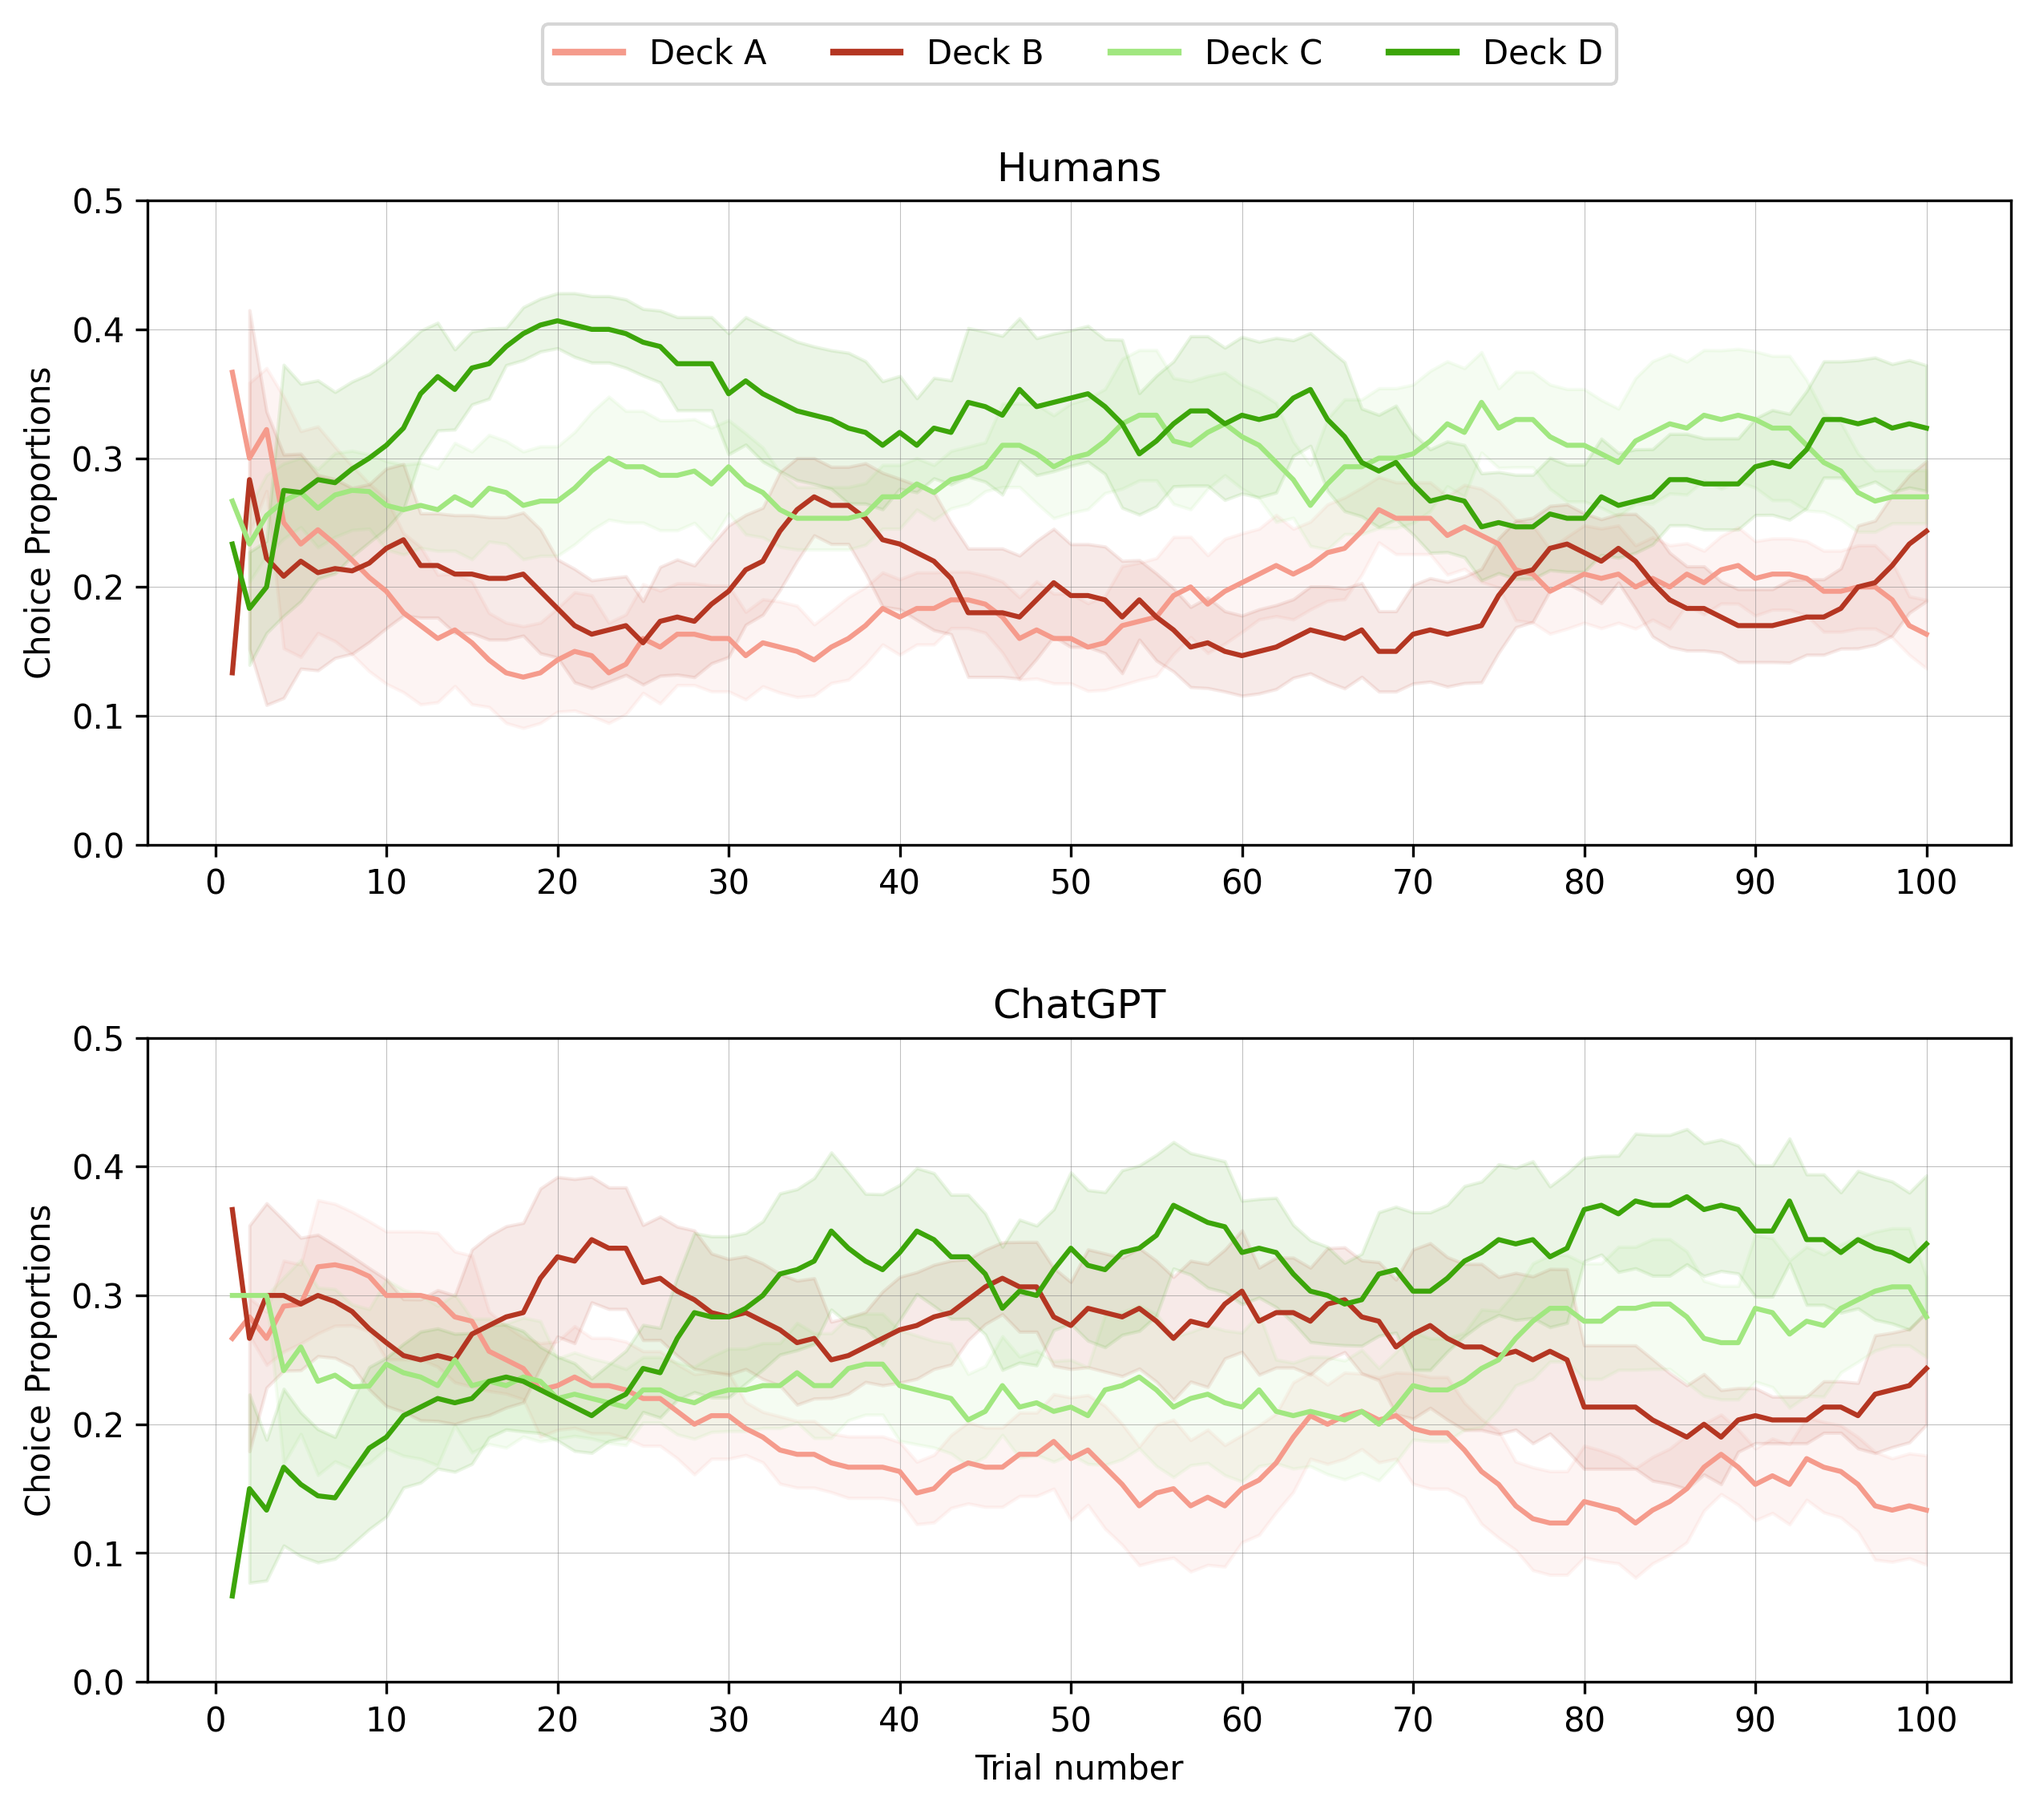
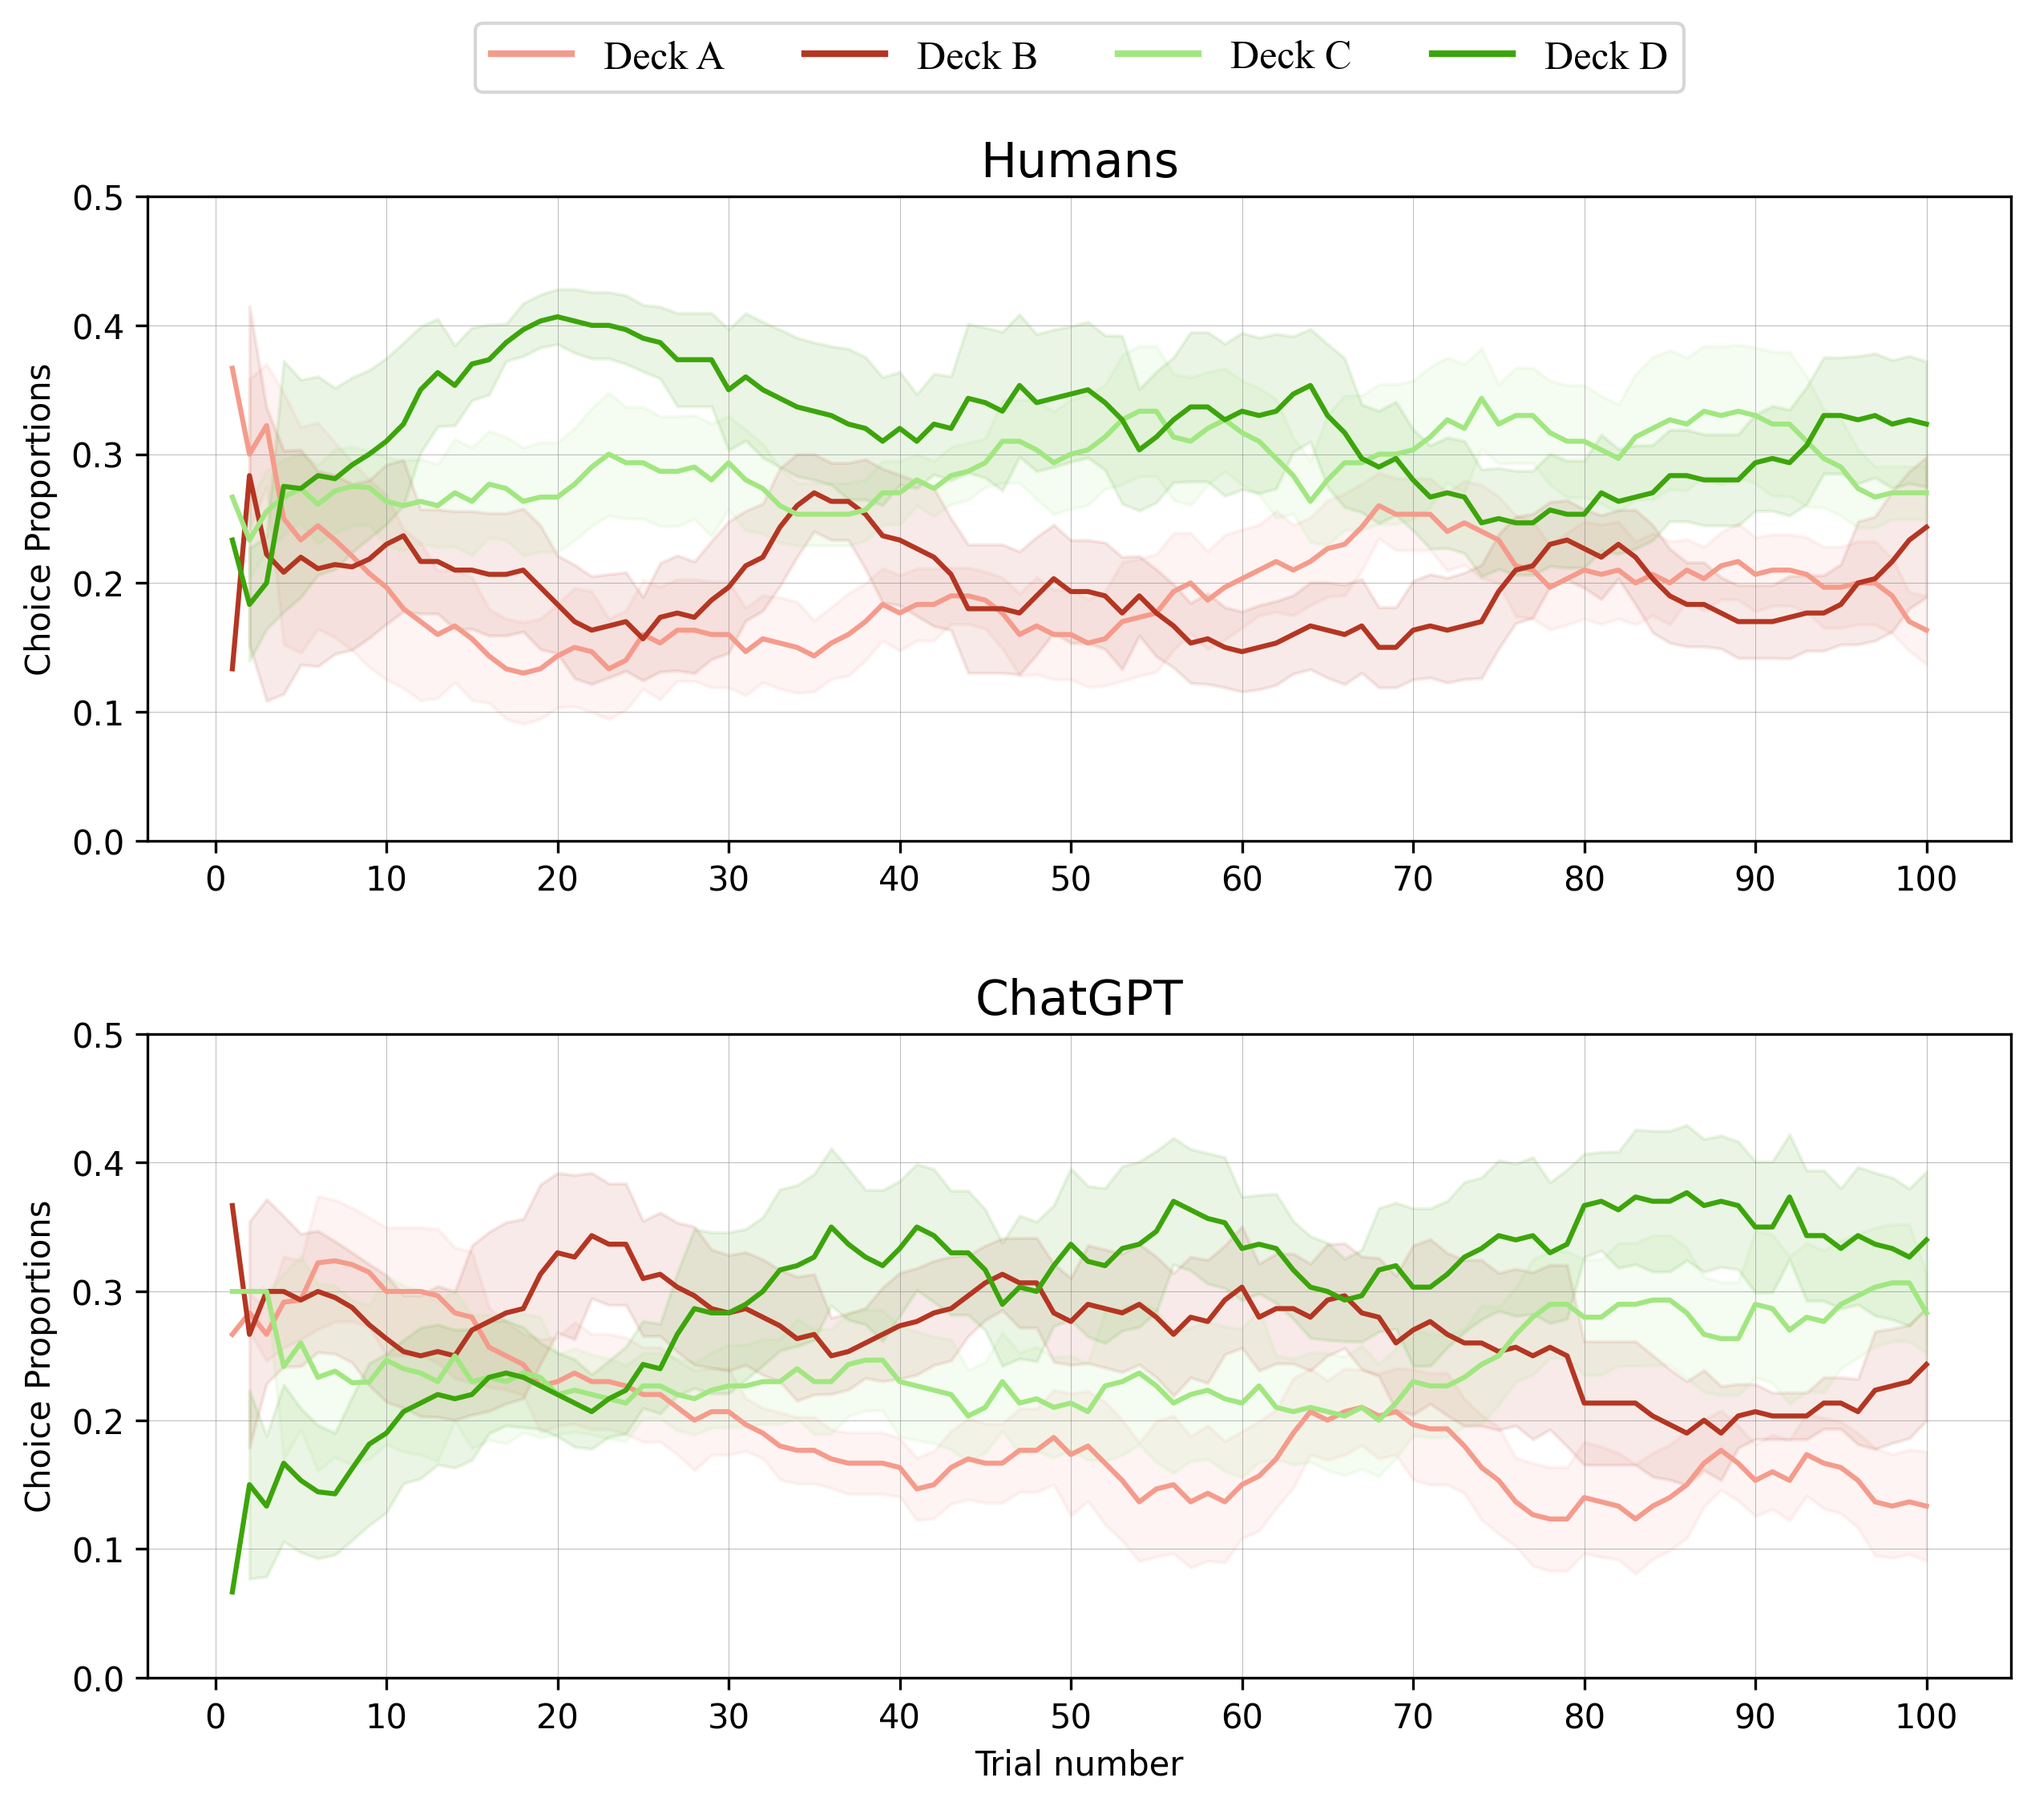
updated font to times

diff --git a/src/descriptives/deck_switch.py b/src/descriptives/deck_switch.py
@@ -2,8 +2,16 @@ import pathlib
 import matplotlib.pyplot as plt
 import numpy as np
 import pandas as pd
-import re
-from scipy.stats import binom
+from matplotlib.lines import Line2D
+from matplotlib.font_manager import FontManager
+
+def set_font():
+    available_fonts = set(f.name for f in FontManager().ttflist)
+    if 'Times New Roman' in available_fonts:
+        # use times new roman if available
+        plt.rcParams['font.family'] = 'Times New Roman'
+        # set font size to 13
+        plt.rcParams.update({'font.size': 13})
 
 def calculate_deck_switches(data):
     # create a new column that indicates the trial number
@@ -29,6 +37,9 @@ def calculate_deck_switches(data):
 def plot_deck_switch_with_confidence(data1, data2, labels, window_size=10, save_path=None):
     # Create a plot
     fig, ax = plt.subplots(figsize=(10, 6))
+
+    # Set font
+    set_font()
 
     # Define colors
     colors = ["#52993C", "#3C5299"]

diff --git a/src/descriptives/deck_preference.py b/src/descriptives/deck_preference.py
@@ -5,6 +5,15 @@ import pandas as pd
 import re
 from scipy.stats import binom
 from matplotlib.lines import Line2D
+from matplotlib.font_manager import FontManager
+
+def set_font():
+    available_fonts = set(f.name for f in FontManager().ttflist)
+    if 'Times New Roman' in available_fonts:
+        # use times new roman if available
+        plt.rcParams['font.family'] = 'Times New Roman'
+        # set font size to 13
+        plt.rcParams.update({'font.size': 12})
 
 def calculate_deck_preferences(data):
     # create a new column that indicates the trial number
@@ -29,6 +38,9 @@ def plot_deck_preferences(data1, data2, labels, window_size=10, save_path=None):
 
     # add space between subplots
     fig.subplots_adjust(hspace=0.3)
+
+    # set font
+    set_font()
 
     # Define colors for all four decks
     colors = ["#F59B8C", "#B43622", "#A1E780", "#3CA50A"]
